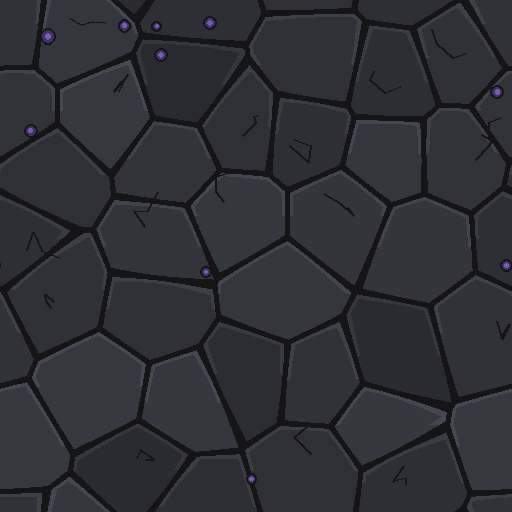
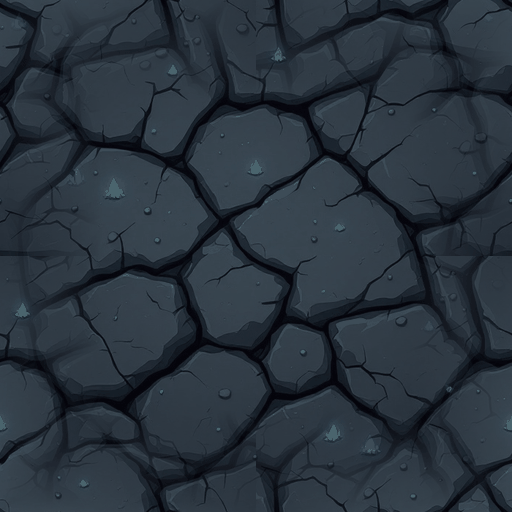
Chapter 5 ground: a generated cave floor replaces the code-drawn rock tile

diff --git a/art/monk/ground/demon/README.md b/art/monk/ground/demon/README.md
@@ -1,10 +1,11 @@
 # Chapter 5 ground: Demon Peak (2026-10-04)
 
-- **Tile**: no generated picture. `tools/rock_tile.py --rgb 50,52,58 --ember 120,92,180 --embers 10`
-  draws the cave floor in code: irregular rock plates (a Voronoi diagram on a torus, so it is
-  seamless) with dark cracks, a lighter lip on each plate's upper edge, hairline cracks and a
-  few small embers, into `client/public/art/ch5/ground/cave.png`. Kept neutral grey: a violet
-  first try hid the violet enemy attacks. `cave.txt` is the prompt for a generated one.
+- **Tile**: `cave_src.png`, generated from `cave.txt` (its embers asked for cold blue, not
+  violet), cropped to its inner square 180,60-880,760 past the vignette and made seamless by
+  `tools/make_tile.py --value 0.24 --sat 0.7 --contrast 0.6` into
+  `client/public/art/ch5/ground/cave.png`. Before it was generated the floor was drawn in code
+  by `tools/rock_tile.py --rgb 50,52,58 --ember 120,92,180 --embers 10` (Voronoi rock plates on a
+  torus); kept as a fallback.
 - **Props**: brazier, spikes, bones, stupa and crystals, generated by text-to-image from the
   `*.txt` prompts here. They came back with violet glows (flames, crystals, skull eyes) and
   violet is kept for enemy attacks, so `cool_glow.py` turns saturated violet cold blue into
